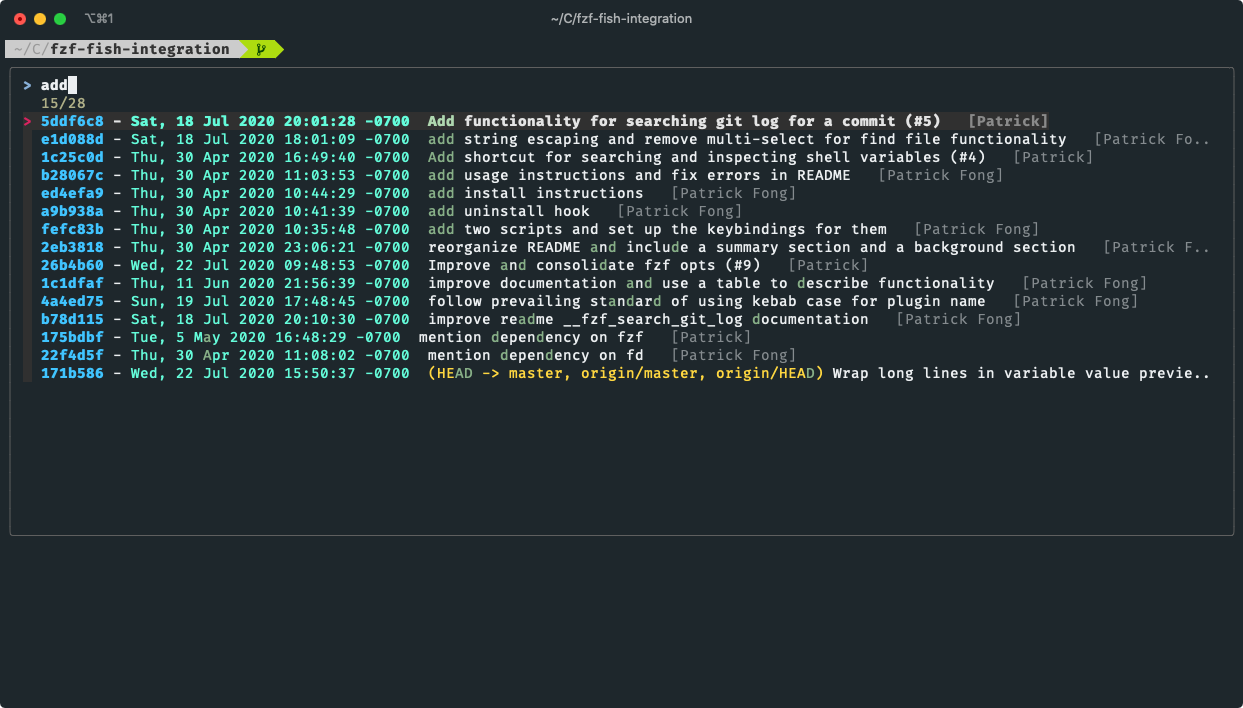
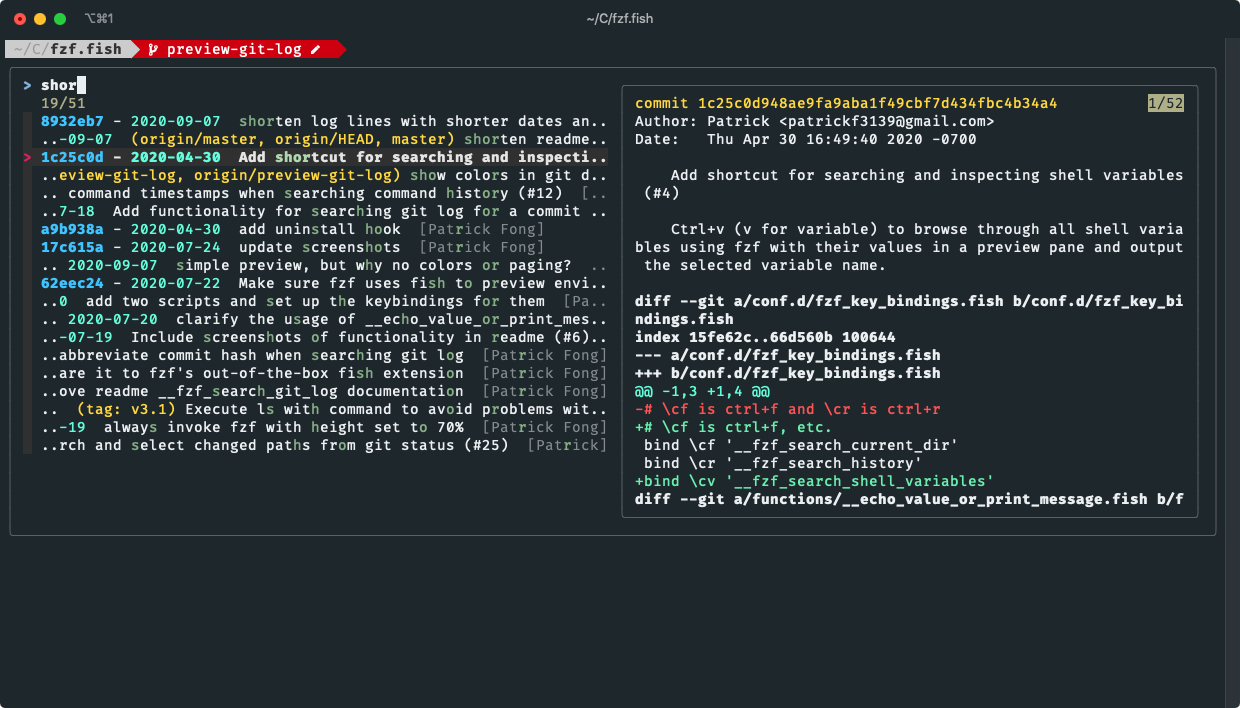
Preview the current commit when searching git log (#26)
When searching git log, preview the commit for the current line with git show. Output is colorized. Also, since the preview pane eats up a lot of space, trimmed git log lines by using a shorter date format and removing a space used for padding.

diff --git a/README.md b/README.md
@@ -12,7 +12,7 @@ A plugin that integrates [fzf](https://github.com/junegunn/fzf) into your [fish]
 
 ![git status select](/images/git_status_select.png)
 
-> Search the current repository's **git log** - `Ctrl+Alt+l` (l for log, Alt to prevent overriding clear screen)
+> Search and preview the current repository's **git log** - `Ctrl+Alt+l` (l for log, Alt to prevent overriding clear screen)
 
 ![git log search](/images/git_log_search.png)
 
